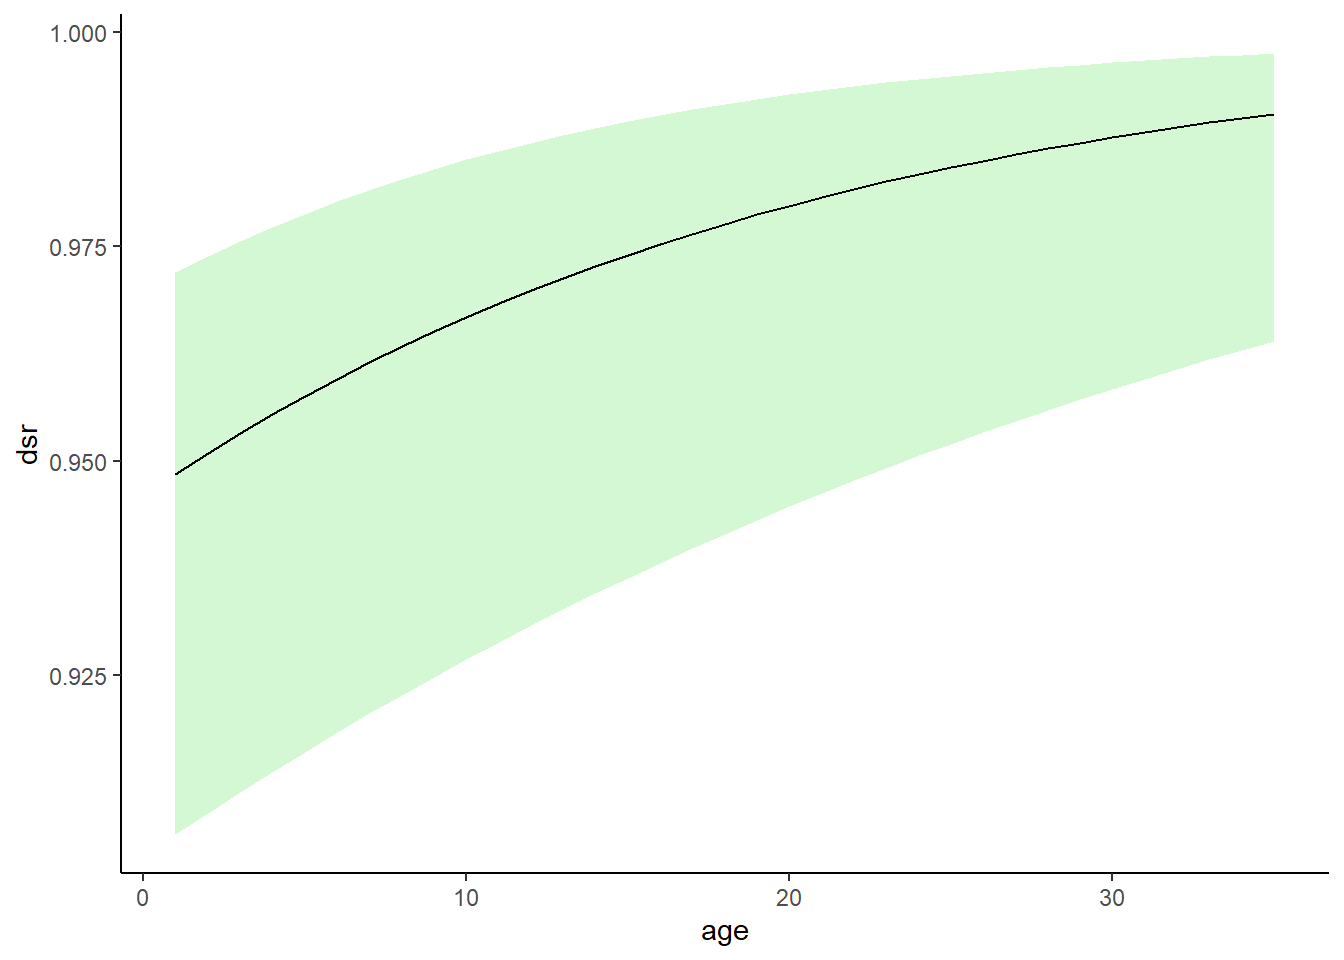
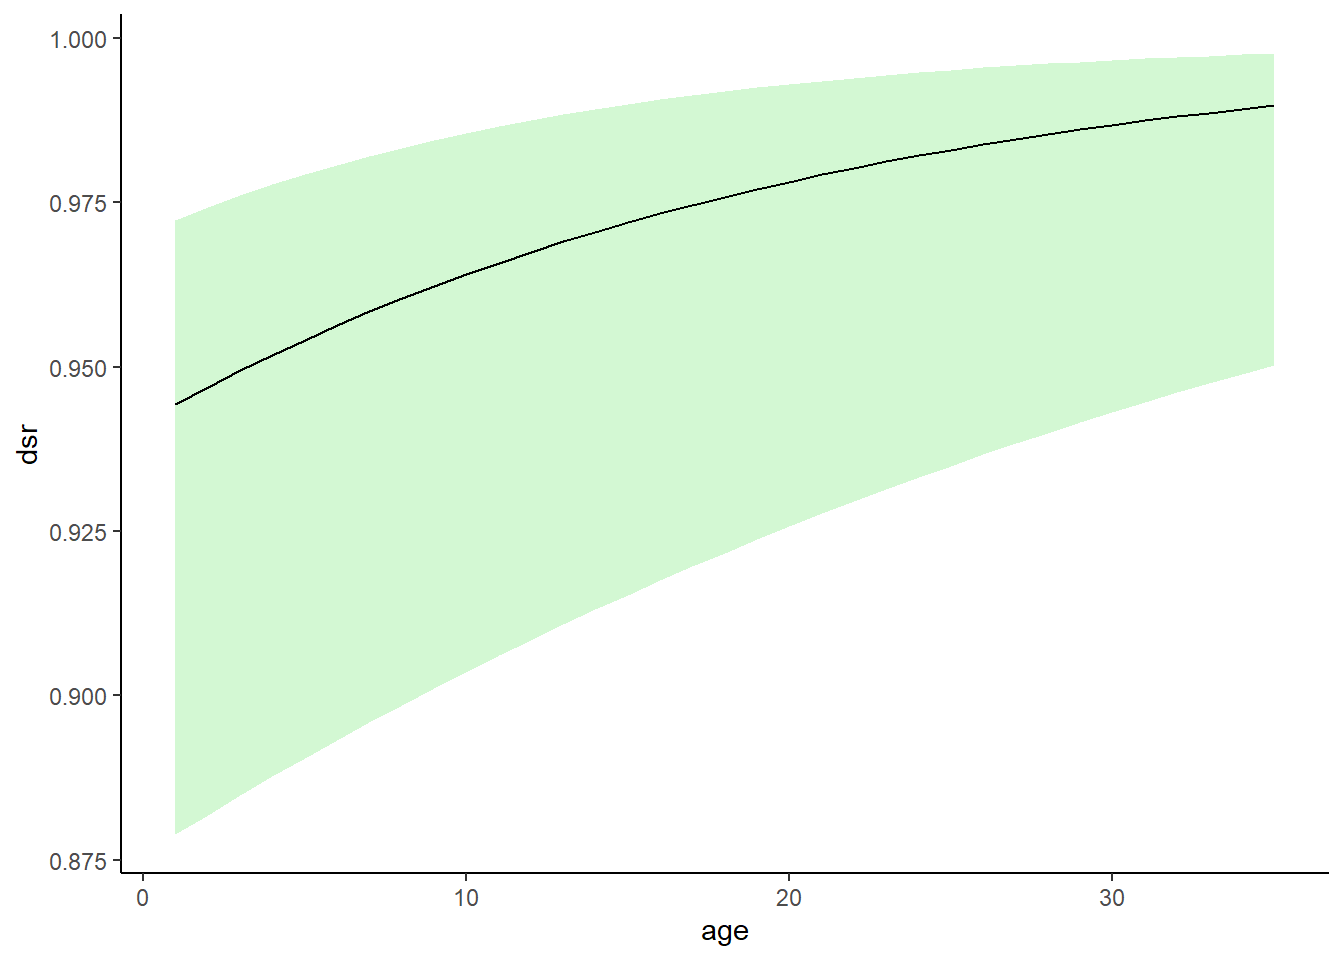
Clase9

diff --git a/docs/Clase9.html b/docs/Clase9.html
@@ -70,6 +70,7 @@ pre > code.sourceCode > span > a:first-child::before { text-decoration: underlin
 <link href="Clase9_files/libs/bootstrap/bootstrap.min.css" rel="stylesheet" id="quarto-bootstrap" data-mode="light">
 
 
+<link rel="stylesheet" href="styles.css">
 </head>
 
 <body class="fullcontent">
@@ -253,74 +254,74 @@ Estimates based on 3 chains of 1100 iterations,
 adaptation = 1000 iterations (sufficient),
 burn-in = 100 iterations and thin rate = 1,
 yielding 3000 total samples from the joint posterior. 
-MCMC ran in parallel for 2.068 minutes at time 2024-11-27 15:50:24.223344.
+MCMC ran in parallel for 8.312 minutes at time 2024-11-27 16:14:20.419413.
 
                  mean     sd     2.5%      50%    97.5% overlap0      f   Rhat
-dsr.mu         2.8609 0.3225   2.2407   2.8644   3.4728    FALSE 1.0000 1.0145
-b.age          0.0509 0.0107   0.0298   0.0506   0.0719    FALSE 1.0000 1.0101
-b.dist        -0.0147 0.0842  -0.1815  -0.0166   0.1545     TRUE 0.5850 1.0140
-b.init        -0.1720 0.0999  -0.3686  -0.1724   0.0249     TRUE 0.9560 1.0009
-dsr.area.sd    0.4014 0.1821   0.0201   0.3950   0.7931    FALSE 1.0000 1.0670
-dsr.yr.sd      0.2744 0.2238   0.0202   0.2126   0.8624    FALSE 1.0000 1.0171
-dsr.spp.sd     0.2474 0.2060   0.0186   0.1914   0.8353    FALSE 1.0000 1.0826
-eps.area[1]    0.4112 0.3642  -0.1624   0.3782   1.1940     TRUE 0.8860 1.0163
-eps.area[2]   -0.1462 0.2543  -0.6667  -0.1179   0.3289     TRUE 0.7150 1.0081
-eps.area[3]    0.1955 0.2555  -0.2851   0.1753   0.7403     TRUE 0.7890 1.0020
-eps.area[4]   -0.0917 0.3317  -0.7721  -0.0591   0.5611     TRUE 0.6080 1.0038
-eps.area[5]    0.0560 0.2687  -0.4705   0.0354   0.6212     TRUE 0.5757 1.0024
-eps.area[6]   -0.5569 0.3099  -1.1727  -0.5499  -0.0005    FALSE 0.9757 1.0457
-eps.area[7]   -0.2175 0.2560  -0.7456  -0.2013   0.2432     TRUE 0.8043 1.0059
-eps.area[8]   -0.1949 0.2475  -0.7081  -0.1842   0.2730     TRUE 0.7857 1.0126
-eps.area[9]    0.3565 0.3036  -0.1438   0.3320   1.0236     TRUE 0.8963 1.0141
-eps.area[10]   0.1354 0.2535  -0.3538   0.1168   0.6851     TRUE 0.7030 1.0053
-eps.area[11]   0.0375 0.3580  -0.6684   0.0137   0.8017     TRUE 0.5283 1.0031
-eps.area[12]   0.1373 0.2289  -0.2979   0.1183   0.6219     TRUE 0.7303 1.0086
-eps.yr[1]     -0.0162 0.1947  -0.4491  -0.0085   0.4015     TRUE 0.5333 1.0156
-eps.yr[2]      0.1229 0.2147  -0.2555   0.0797   0.6481     TRUE 0.7387 1.0064
-eps.yr[3]     -0.0725 0.1940  -0.5279  -0.0507   0.3307     TRUE 0.6707 1.0191
-eps.spp[1]     0.0447 0.1567  -0.2761   0.0309   0.3838     TRUE 0.6217 1.0084
-eps.spp[2]     0.1116 0.2139  -0.2206   0.0599   0.6530     TRUE 0.6863 1.0249
-eps.spp[3]    -0.0834 0.1609  -0.4548  -0.0507   0.1882     TRUE 0.6817 1.0068
-eps.spp[4]    -0.0504 0.1647  -0.4474  -0.0266   0.2522     TRUE 0.6027 1.0055
-eps.spp[5]    -0.0633 0.2390  -0.6321  -0.0328   0.4287     TRUE 0.6153 1.0326
-eps.spp[6]    -0.0461 0.2631  -0.7258  -0.0145   0.4645     TRUE 0.5593 1.0263
-eps.spp[7]     0.1344 0.2937  -0.2972   0.0583   0.9193     TRUE 0.6710 1.0551
-eps.spp[8]     0.0675 0.3416  -0.4658   0.0123   1.1445     TRUE 0.5450 1.0921
-deviance     765.6391 7.0491 754.8396 764.7068 782.1445    FALSE 1.0000 1.0890
+dsr.mu         2.7792 0.3839   1.9534   2.7882   3.4875    FALSE 1.0000 1.0594
+b.age          0.0511 0.0115   0.0285   0.0510   0.0735    FALSE 1.0000 1.0470
+b.dist        -0.0076 0.0819  -0.1654  -0.0064   0.1556     TRUE 0.5327 1.0042
+b.init        -0.1706 0.0974  -0.3535  -0.1727   0.0233     TRUE 0.9577 1.0107
+dsr.area.sd    0.4289 0.1661   0.1174   0.4191   0.7898    FALSE 1.0000 1.0075
+dsr.yr.sd      0.3232 0.2422   0.0198   0.2579   0.8965    FALSE 1.0000 1.0054
+dsr.spp.sd     0.2243 0.1724   0.0260   0.1791   0.7006    FALSE 1.0000 1.1811
+eps.area[1]    0.4451 0.3627  -0.1472   0.4019   1.2617     TRUE 0.9110 1.0047
+eps.area[2]   -0.1377 0.2585  -0.6641  -0.1333   0.3687     TRUE 0.7057 1.0004
+eps.area[3]    0.2071 0.2551  -0.2815   0.1996   0.7250     TRUE 0.7893 1.0027
+eps.area[4]   -0.1050 0.3445  -0.8160  -0.0873   0.5845     TRUE 0.6160 1.0043
+eps.area[5]    0.0857 0.2849  -0.4460   0.0621   0.6608     TRUE 0.6003 1.0088
+eps.area[6]   -0.5800 0.2967  -1.1703  -0.5809  -0.0143    FALSE 0.9810 1.0052
+eps.area[7]   -0.2078 0.2553  -0.7353  -0.2025   0.2848     TRUE 0.7970 1.0016
+eps.area[8]   -0.1859 0.2574  -0.7314  -0.1805   0.2967     TRUE 0.7687 1.0016
+eps.area[9]    0.4102 0.2955  -0.0950   0.3963   1.0374     TRUE 0.9337 1.0021
+eps.area[10]   0.1496 0.2597  -0.3387   0.1417   0.6740     TRUE 0.7190 1.0038
+eps.area[11]   0.0316 0.3684  -0.6938   0.0188   0.8092     TRUE 0.5233 0.9998
+eps.area[12]   0.1530 0.2388  -0.3059   0.1435   0.6386     TRUE 0.7457 1.0051
+eps.yr[1]      0.0329 0.2516  -0.4544   0.0069   0.6507     TRUE 0.5237 1.0057
+eps.yr[2]      0.1884 0.2762  -0.2385   0.1265   0.8978     TRUE 0.7833 1.0125
+eps.yr[3]     -0.0370 0.2566  -0.5665  -0.0355   0.5480     TRUE 0.6073 1.0076
+eps.spp[1]     0.0496 0.1596  -0.2603   0.0323   0.4158     TRUE 0.6247 1.0692
+eps.spp[2]     0.1087 0.2077  -0.2251   0.0654   0.6385     TRUE 0.7063 1.1039
+eps.spp[3]    -0.0767 0.1727  -0.4720  -0.0530   0.2484     TRUE 0.6817 1.0281
+eps.spp[4]    -0.0505 0.1739  -0.4508  -0.0286   0.2848     TRUE 0.6217 1.0296
+eps.spp[5]    -0.0703 0.2074  -0.5742  -0.0429   0.3309     TRUE 0.6240 1.0391
+eps.spp[6]    -0.0235 0.2570  -0.6265  -0.0098   0.4568     TRUE 0.5247 1.0288
+eps.spp[7]     0.1074 0.2551  -0.2803   0.0464   0.7869     TRUE 0.6510 1.1734
+eps.spp[8]     0.0393 0.2638  -0.4439   0.0095   0.6667     TRUE 0.5353 1.0663
+deviance     764.7716 6.3337 754.5922 764.0246 779.7214    FALSE 1.0000 1.0132
              n.eff
-dsr.mu         198
-b.age          287
-b.dist         148
-b.init        1975
-dsr.area.sd     47
-dsr.yr.sd      129
-dsr.spp.sd      41
-eps.area[1]    135
-eps.area[2]    358
-eps.area[3]    895
-eps.area[4]    651
-eps.area[5]   2786
-eps.area[6]     53
-eps.area[7]    323
-eps.area[8]    197
-eps.area[9]    144
-eps.area[10]   951
-eps.area[11]  1106
-eps.area[12]   249
-eps.yr[1]     1496
-eps.yr[2]     1478
-eps.yr[3]      472
-eps.spp[1]     341
-eps.spp[2]     115
-eps.spp[3]     419
-eps.spp[4]     575
-eps.spp[5]    2792
-eps.spp[6]     193
-eps.spp[7]      61
-eps.spp[8]      77
-deviance        45
+dsr.mu          39
+b.age           78
+b.dist         538
+b.init         262
+dsr.area.sd    724
+dsr.yr.sd      361
+dsr.spp.sd      16
+eps.area[1]   1461
+eps.area[2]   2309
+eps.area[3]    647
+eps.area[4]   1013
+eps.area[5]    626
+eps.area[6]   1217
+eps.area[7]   1893
+eps.area[8]   1491
+eps.area[9]   1407
+eps.area[10]   775
+eps.area[11]  3000
+eps.area[12]   511
+eps.yr[1]      383
+eps.yr[2]      184
+eps.yr[3]      268
+eps.spp[1]      56
+eps.spp[2]      36
+eps.spp[3]     253
+eps.spp[4]     607
+eps.spp[5]     242
+eps.spp[6]     484
+eps.spp[7]      24
+eps.spp[8]     521
+deviance       385
 
-Successful convergence based on Rhat values (all &lt; 1.1). 
+**WARNING** Rhat values indicate convergence failure. 
 Rhat is the potential scale reduction factor (at convergence, Rhat=1). 
 For each parameter, n.eff is a crude measure of effective sample size. 
 
@@ -329,7 +330,7 @@ f is the proportion of the posterior with the same sign as the mean;
 i.e., our confidence that the parameter is positive or negative.
 
 DIC info: (pD = var(deviance)/2) 
-pD = 23.7 and DIC = 789.3595 
+pD = 20 and DIC = 784.7383 
 DIC is an estimate of expected predictive error (lower is better).</code></pre>
 </div>
 </div>
